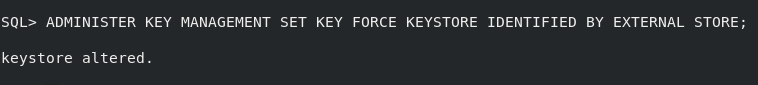
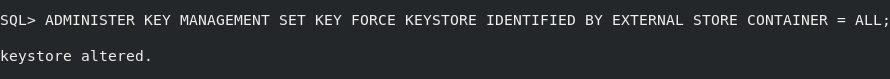
Lab changes + validation fixes (#405)
* Updated the brown button stack bundle path

* Updated versions

* Updated instruction to refresh page

* Corrected minor typo

* Updated lab headings

* Updated screenshots for Lab 10 + added acknowledgements

* Fixed issues causing validation failure

* Updated file name per validation check

Changed region(s): [[0.0, 0.1772, 1.0, 0.3291], [0.0, 0.6076, 0.2124, 0.8101]]

diff --git a/database/advanced/key-vault/key-vault-lab-5.md b/database/advanced/key-vault/key-vault-lab-5.md
@@ -13,7 +13,7 @@ This lab builds on concepts and operations from lab 4. Complete lab 4 first befo
 
 ## Task 1: Enroll the incoming Oracle database into Oracle Key Vault
 
-1.  Refresh the browser window on the right side of the remote desktop and log in to Key Vault as user **KVEPADMIN**
+1. Refresh the browser window on the right side of the remote desktop and log in to Key Vault as user **KVEPADMIN**
 
     For the password, execute the following command
 
@@ -31,7 +31,7 @@ This lab builds on concepts and operations from lab 4. Complete lab 4 first befo
 
     ![Key Vault](./images/image-2025-7-24_15-59-1.png "Click the Endpoints tab, then click Add to create a new endpoint")
 
-3.  Provide the endpoint details and click **Register** to create the new endpoint
+3. Provide the endpoint details and click **Register** to create the new endpoint
 
     We recommend using LIVELABS\_DB\_EP for the **Endpoint Name**
     ```plaintext
@@ -49,11 +49,11 @@ This lab builds on concepts and operations from lab 4. Complete lab 4 first befo
     ![Key Vault](./images/image-2025-7-24_12-17-29.png "Fill in the details of your endpoint: Endpoint Name is LIVELABS_DB_EP; Type is Oracle Database; OS Type is Linux; Description is 'This is the endpoint for LiveLabs database (cdb1).'; Click 'Register'")
 
 
-4.  Click the newly created endpoint **LIVELABS\_DB\_EP** to see its details
+4. Click the newly created endpoint **LIVELABS\_DB\_EP** to see its details
 
     ![Key Vault](./images/Screenshot_2025-10-03_14.02.30.png "Click the newly created endpoint LIVELABS_DB_EP to see its details")
 
-5.  Add **LIVELABS\_DB\_WALLET** as the **Default Wallet** on the endpoint details page and click **Save**
+5. Add **LIVELABS\_DB\_WALLET** as the **Default Wallet** on the endpoint details page and click **Save**
 
     By setting up a *default wallet*, all new keys of the database will be a part of this wallet.
 
@@ -65,11 +65,11 @@ This lab builds on concepts and operations from lab 4. Complete lab 4 first befo
 
     ![Key Vault](./images/image-2025-7-24_16-12-59.png "Add the default wallet on the endpoint details page and click Save")
 
-6.  Verify that the permissions of the default wallet (LIVELABS\_DB\_WALLET) are set to 'Read, Write, Manage Wallet' by checking the **Access to Wallets** section of this page
+6. Verify that the permissions of the default wallet (LIVELABS\_DB\_WALLET) are set to 'Read, Write, Manage Wallet' by checking the **Access to Wallets** section of this page
 
     ![Key Vault](./images/Screenshot_2025-10-03_13.56.15.png "Check the permissions of the default wallet")
 
-7.  Click on the **Endpoints** tab and copy the **Enrollment Token** for **LIVELABS\_DB\_EP**
+7. Click on the **Endpoints** tab and copy the **Enrollment Token** for **LIVELABS\_DB\_EP**
 
     ![Key Vault](./images/Screenshot_2025-10-03_14.03.59.png "Click on the Endpoints tab and copy the Enrollment Token")
 
@@ -79,21 +79,21 @@ This lab builds on concepts and operations from lab 4. Complete lab 4 first befo
 
 ## Task 2: Download the Oracle Key Vault client software for this database
 
-1.  On the database host, go to the Key Vault login page, and click on **Endpoint Enrollment and Software Download**
+1. On the database host, go to the Key Vault login page, and click on **Endpoint Enrollment and Software Download**
 
     ![Key Vault](./images/image-2025-7-24_12-31-21.png "On the database host, go to the Key Vault login page, click on Endpoint Enrollment and Software Download")
 
-2.  Paste the Enrollment Token copied in step 7 of Task 1 and click **Submit Token**. You will see the endpoint details automatically populated.
+2. Paste the Enrollment Token copied in step 7 of Task 1 and click **Submit Token**. You will see the endpoint details automatically populated.
 
     ![Key Vault](./images/Screenshot_2025-10-03_14.11.39.png "Paste the Enrollment Token copied in step 7 of task 1 and click Submit Token. You will see the endpoint details automatically populated.")
 
-3.  Click **Enroll** to download the "okvclient.jar" file. The file is downloaded to your database host.
+3. Click **Enroll** to download the "okvclient.jar" file. The file is downloaded to your database host.
 
     ![Key Vault](./images/Screenshot_2025-10-03_14.13.54.png "Click enroll to download the okvclient.jar file. The file is downloaded to your database host.")
 
 ## Task 3: Deploy the Oracle Key Vault client software on the database host
 
-1.  Set up the Key Vault endpoint home. This is the root directory for the endpoint software. Setting **OKV_HOME** allows Key Vault utilities and libraries to locate the endpoint software and configuration files.
+1. Set up the Key Vault endpoint home. This is the root directory for the endpoint software. Setting **OKV_HOME** allows Key Vault utilities and libraries to locate the endpoint software and configuration files.
 
     ```
     <copy>
@@ -101,7 +101,7 @@ This lab builds on concepts and operations from lab 4. Complete lab 4 first befo
     </copy>
     ```
 
-2.  Install the Key Vault software. This prompts for the endpoint connection password. We will call this the "Key Vault endpoint password".
+2. Install the Key Vault software. This prompts for the endpoint connection password. We will call this the "Key Vault endpoint password".
 
     This is a one time step, and the installation software (okvclient.jar) is automatically deleted after a successful installation.
 
@@ -115,7 +115,7 @@ This lab builds on concepts and operations from lab 4. Complete lab 4 first befo
 
     ![Key Vault](./images/image-2025-09-27_install.png "Install Key Vault software. This prompts for the endpoint connection password.")
 
-3.  Review the layout of the Key Vault endpoint home
+3. Review the layout of the Key Vault endpoint home
 
     ```
     <copy>
@@ -125,7 +125,7 @@ This lab builds on concepts and operations from lab 4. Complete lab 4 first befo
 
     ![Key Vault](./images/image-2025-7-24_16-33-45.png "Review the layout of the Key Vault endpoint home")
 
-4.  Deploy the Key Vault library (liborapkcs.so) used by the database to communicate with Key Vault
+4. Deploy the Key Vault library (liborapkcs.so) used by the database to communicate with Key Vault
 
     ```
     <copy>
@@ -137,7 +137,7 @@ This lab builds on concepts and operations from lab 4. Complete lab 4 first befo
 
 ## Task 4: Preparing the database for Oracle Key Vault migration
 
-1.  Update the TDE configuration of the database to OKV|FILE
+1. Update the TDE configuration of the database to OKV|FILE
 
     ```
     <copy>
@@ -151,7 +151,7 @@ This lab builds on concepts and operations from lab 4. Complete lab 4 first befo
 
 ## Task 5: Migrate the database to Oracle Key Vault for centralized key management
 
-1.  Migrate the database to use Key Vault
+1. Migrate the database to use Key Vault
 
     Use the same password for the Key Vault endpoint as used in step 2 of Task 3
 
@@ -178,7 +178,7 @@ This lab builds on concepts and operations from lab 4. Complete lab 4 first befo
 
     ![Key Vault](./images/Screenshot_2025-10-03_15.11.26.png "Add the Key Vault password to the TDE wallet")
 
-2.  Migration is always a re-key (key rotation) operation. A new key is generated in Key Vault, and the data encryption keys are re-wrapped with this new key in Key Vault. For a multi-tenant database with CDB$ROOT and one PDB, two keys are created: one for CDB$ROOT and one for PDB1.
+2. Migration is always a re-key (key rotation) operation. A new key is generated in Key Vault, and the data encryption keys are re-wrapped with this new key in Key Vault. For a multi-tenant database with CDB$ROOT and one PDB, two keys are created: one for CDB$ROOT and one for PDB1.
 
     Enter the Key Vault endpoint password when prompted.
 
@@ -190,7 +190,7 @@ This lab builds on concepts and operations from lab 4. Complete lab 4 first befo
 
     ![Key Vault](./images/Screenshot_2025-10-03_15.13.44.png "Migration is always a re-key operation. There are two new keys created in Key Vault: one for the CDB\$ROOT and one for PDB1")
 
-3.  Verify the database configuration post-migration to Key Vault
+3. Verify the database configuration post-migration to Key Vault
 
     ```
     <copy>
@@ -203,3 +203,8 @@ This lab builds on concepts and operations from lab 4. Complete lab 4 first befo
     - In the wallet status, you'll see the wallet of type OKV is open
     
     ![Key Vault](./images/image-2025-7-24_17-8-50.png "Review the database setup after migrating to Key Vault")
+
+## Acknowledgements
+- **Author** - Shubham Goyal
+- **Contributors** - Peter Wahl, Rahil Mir
+- **Last Updated By/Date** - Shubham Goyal - March 2026

diff --git a/database/advanced/key-vault/key-vault-lab-9.md b/database/advanced/key-vault/key-vault-lab-9.md
@@ -1,4 +1,4 @@
-# Enhance security with key management in vulnerable environments
+# Restrict key exposure in target environments (like P2T clones)
 
 ## Introduction
 You may need to share data with environments operating under lower security controls, such as when cloning a PDB from production to test (P2T). It is crucial to ensure that TDE master encryption keys are never exposed, downloaded, or cached in these environments. To enhance security, mark these keys as non-extractable in Oracle Key Vault.
@@ -13,7 +13,7 @@ This lab builds on concepts and operations from lab 8. Complete lab 8 first befo
 
 ## Task 1: Generate a Non-Extractable key
 
-1.  Log in to Key Vault as user **KVRESTADMIN**
+1. Log in to Key Vault as user **KVRESTADMIN**
 
     Get the password of KVRESTADMIN by executing this command
 
@@ -33,7 +33,7 @@ This lab builds on concepts and operations from lab 8. Complete lab 8 first befo
 
     ![Key Vault](./images/Screenshot_2025-10-03_14.29.00.png "Set the Extractable Attribute for the Symmetric Key to False")
 
-4.  On the database host, set a new Transparent Data Encryption Key. The new key created in Key Vault will be generated with the 'Non Extractable' attribute set
+4. On the database host, set a new Transparent Data Encryption Key. The new key created in Key Vault will be generated with the 'Non Extractable' attribute set
 
     ```
     <copy>
@@ -67,7 +67,7 @@ This lab builds on concepts and operations from lab 8. Complete lab 8 first befo
     </copy>
     ````
 
-   ![Key Vault](./images/Screenshot_2025-10-03_15.59.33.png "Check if the server is unreachable")
+    ![Key Vault](./images/Screenshot_2025-10-03_15.59.33.png "Check if the server is unreachable")
 
 ## Task 3: Attempt to create a new tablespace to confirm that database operations fail even when the secure persistent cache exists
 
@@ -85,7 +85,7 @@ This lab builds on concepts and operations from lab 8. Complete lab 8 first befo
 
     The creation of an encrypted tablespace fails because the non-extractable key cannot exist in the persistent cache, and the database cannot fetch it from Key Vault since the connection was disconnected in Task 2. This underscores that non-extractable keys cannot be accessed outside of Key Vault and that this deployment can be leveraged to provide higher levels of assurance in environments with a lower security posture.
 
-   ![Key Vault](./images/Screenshot_2025-10-07_22.09.24.png "Attempt to create a new tablespace")
+    ![Key Vault](./images/Screenshot_2025-10-07_22.09.24.png "Attempt to create a new tablespace")
 
 
 ## Task 4: Re-establish connectivity between the database and Key Vault
@@ -108,5 +108,9 @@ This lab builds on concepts and operations from lab 8. Complete lab 8 first befo
     </copy>
     ````
 
-   ![Key Vault](./images/Screenshot_2025-10-03_16.04.40.png "Ensure the server is reachable")
+    ![Key Vault](./images/Screenshot_2025-10-03_16.04.40.png "Ensure the server is reachable")
 
+## Acknowledgements
+- **Author** - Shubham Goyal
+- **Contributors** - Peter Wahl, Rahil Mir
+- **Last Updated By/Date** - Shubham Goyal - March 2026

diff --git a/database/advanced/key-vault/key-vault-lab-8.md b/database/advanced/key-vault/key-vault-lab-8.md
@@ -1,4 +1,4 @@
-# Ensure reliable data access during connectivity disruptions
+# Ensure reliable data access during disruptions in connectivity between the database and Oracle Key Vault
 
 ## Introduction
 Oracle Key Vault cluster deployment ensures continuous availability during server failures, but connectivity disruptions may still pose a problem. How do you handle network disruptions between your databases and the Key Vault cluster? Key Vault's secure persistent cache ensures your databases continue operating smoothly, even during connectivity issues. 
@@ -23,7 +23,7 @@ This lab builds on concepts and operations from lab 5. Complete lab 5 first befo
     </copy>
     ````
 
-   ![Key Vault](./images/Screenshot_2025-10-03_15.56.40.png "List the IDs of the keys in the local secure persistent cache")
+    ![Key Vault](./images/Screenshot_2025-10-03_15.56.40.png "List the IDs of the keys in the local secure persistent cache")
 
 ## Task 2: Simulate network outage
 
@@ -51,7 +51,7 @@ This lab builds on concepts and operations from lab 5. Complete lab 5 first befo
 
     The retrieval of key IDs from Key Vault will fail because the network connection between the database and the Key Vault server is disconnected.
 
-   ![Key Vault](./images/Screenshot_2025-10-03_15.59.33.png "Check if the server is unreachable")
+    ![Key Vault](./images/Screenshot_2025-10-03_15.59.33.png "Check if the server is unreachable")
 
 ## Task 3: Confirm database resilience with persistent cache by creating a new encrypted tablespace
 
@@ -65,7 +65,7 @@ This lab builds on concepts and operations from lab 5. Complete lab 5 first befo
     </copy>
     ````
 
-   ![Key Vault](./images/Screenshot_2025-10-03_16.01.30.png "Create a new encrypted tablespace")
+    ![Key Vault](./images/Screenshot_2025-10-03_16.01.30.png "Create a new encrypted tablespace")
 
 2. Verify the new tablespace was created
 
@@ -77,7 +77,7 @@ This lab builds on concepts and operations from lab 5. Complete lab 5 first befo
     </copy>
     ````
 
-   ![Key Vault](./images/Screenshot_2025-10-03_16.03.05.png "Verify the new tablespace was created")
+    ![Key Vault](./images/Screenshot_2025-10-03_16.03.05.png "Verify the new tablespace was created")
 
 ## Task 4: Re-establish connectivity between the database and Key Vault
 
@@ -99,4 +99,9 @@ This lab builds on concepts and operations from lab 5. Complete lab 5 first befo
     </copy>
     ````
 
-   ![Key Vault](./images/Screenshot_2025-11-10_16.37.08.png "Ensure the server is reachable")
+    ![Key Vault](./images/Screenshot_2025-11-10_16.37.08.png "Ensure the server is reachable")
+
+## Acknowledgements
+- **Author** - Shubham Goyal
+- **Contributors** - Peter Wahl, Rahil Mir
+- **Last Updated By/Date** - Shubham Goyal - March 2026

diff --git a/database/advanced/key-vault/key-vault-lab-4.md b/database/advanced/key-vault/key-vault-lab-4.md
@@ -27,25 +27,30 @@ cd $DBSEC_LABS/okv
 The script will display the output:
 
 1. The system parameters controlling the behavior of TDE in your database: 
-- The default algorithm is AES256
-- Newly created tablespaces will be encrypted by default
-- The database uses a file-based wallet 
-- Root directory of the database wallet, &lt;WALLET\_ROOT&gt;. TDE wallets are located at &lt;WALLET\_ROOT&gt;/tde.
+    - The default algorithm is AES256
+    - Newly created tablespaces will be encrypted by default
+    - The database uses a file-based wallet 
+    - Root directory of the database wallet, &lt;WALLET\_ROOT&gt;. TDE wallets are located at &lt;WALLET\_ROOT&gt;/tde.
 
-![Key Vault](./images/OKV-LL4-001a.png "You see the system parameters that are controlling the behavior of TDE in your database.")
+    ![Key Vault](./images/OKV-LL4-001a.png "You see the system parameters that are controlling the behavior of TDE in your database.")
 
 2. The file-based wallet is open, and the database can use the master keys from the wallet for TDE operations. The PDB does not show a wallet location because the database is using united mode PDBs, and the PDBs inherit their location from CDB$ROOT.
 
-![Key Vault](./images/OKV-LL4-001b.png "The file based wallet is open for use. Since the database is using united mode PDBs, they inherit their location from CDB$ROOT.")
+    ![Key Vault](./images/OKV-LL4-001b.png "The file based wallet is open for use. Since the database is using united mode PDBs, they inherit their location from CDB$ROOT.")
 
 3. The identifier and creation time of the TDE master encryption key used by the CDB and PDB
 
-![Key Vault](./images/OKV-LL4-001c.png "The identifier of the TDE master encryption key in use by the CDB and the PDB as well as their creation time")
+    ![Key Vault](./images/OKV-LL4-001c.png "The identifier of the TDE master encryption key in use by the CDB and the PDB as well as their creation time")
 
 4. A list of encrypted tablespaces
 
-![Key Vault](./images/OKV-LL4-001d.png "A list of encrypted tablespaces")
+    ![Key Vault](./images/OKV-LL4-001d.png "A list of encrypted tablespaces")
 
 5. A list of encrypted RMAN backups
 
-![Key Vault](./images/OKV-LL4-001e.png "A list of encrypted RMAN backups")
+    ![Key Vault](./images/OKV-LL4-001e.png "A list of encrypted RMAN backups")
+
+## Acknowledgements
+- **Author** - Shubham Goyal
+- **Contributors** - Peter Wahl, Rahil Mir
+- **Last Updated By/Date** - Shubham Goyal - March 2026

diff --git a/database/advanced/key-vault/key-vault-lab-6.md b/database/advanced/key-vault/key-vault-lab-6.md
@@ -25,7 +25,7 @@ This lab builds on concepts and operations from lab 5. Complete lab 5 first befo
     </copy>
     ````
 
-   ![Key Vault](./images/image-2025-09-27_upload.png "Upload the pre-migration key from the local TDE wallet into the OKV wallet that you created in Lab 5:")
+    ![Key Vault](./images/image-2025-09-27_upload.png "Upload the pre-migration key from the local TDE wallet into the OKV wallet that you created in Lab 5:")
 
 2. Set the TDE_CONFIGURATION of the database to "OKV"
 
@@ -37,7 +37,7 @@ This lab builds on concepts and operations from lab 5. Complete lab 5 first befo
     </copy>
     ````
 
-   ![Key Vault](./images/TDE_CONFIG_OKV.png "Set the TDE_CONFIGURATION to 'OKV'")
+    ![Key Vault](./images/TDE_CONFIG_OKV.png "Set the TDE_CONFIGURATION to 'OKV'")
 
 3. To ensure security, delete the local TDE wallet from &lt;WALLET_ROOT&gt;/tde
 
@@ -48,4 +48,9 @@ This lab builds on concepts and operations from lab 5. Complete lab 5 first befo
     </copy>
     ````
 
-   ![Key Vault](./images/image-2025-09-05-delete-wallet-after-upload.png "To ensure security, delete the local TDE wallet from <WALLET_ROOT>/tde:")
+    ![Key Vault](./images/image-2025-09-05-delete-wallet-after-upload.png "To ensure security, delete the local TDE wallet from <WALLET_ROOT>/tde:")
+
+## Acknowledgements
+- **Author** - Shubham Goyal
+- **Contributors** - Peter Wahl, Rahil Mir
+- **Last Updated By/Date** - Shubham Goyal - March 2026

diff --git a/database/advanced/key-vault/key-vault-lab-7.md b/database/advanced/key-vault/key-vault-lab-7.md
@@ -23,7 +23,7 @@ This lab builds on concepts and operations from lab 6. Complete lab 6 first befo
     </copy>
     ````
 
-   ![Key Vault](./images/image-2025-09-25_11-48-23.png "Create a new local auto-login wallet in <WALLET_ROOT>/tde and add the Key Vault endpoint password")
+    ![Key Vault](./images/image-2025-09-25_11-48-23.png "Create a new local auto-login wallet in <WALLET_ROOT>/tde and add the Key Vault endpoint password")
 
 2. Update the Transparent Data Encryption (TDE) configuration of the database to 'OKV|FILE' so it can locate the new auto-login wallet in the specified &lt;WALLET_ROOT&gt;/tde directory.
 
@@ -67,3 +67,8 @@ This lab builds on concepts and operations from lab 6. Complete lab 6 first befo
     ```
     
     ![Key Vault](./images/Screenshot_2025-10-07_23.08.12.png "Confirm that the auto-login wallet has been correctly configured and is operational")
+
+## Acknowledgements
+- **Author** - Shubham Goyal
+- **Contributors** - Peter Wahl, Rahil Mir
+- **Last Updated By/Date** - Shubham Goyal - March 2026

diff --git a/database/advanced/key-vault/key-vault-lab-11.md b/database/advanced/key-vault/key-vault-lab-11.md
@@ -14,7 +14,7 @@ This lab builds on concepts and operations from lab 10. Complete lab 10 first be
 
 ## Task 1: Generate a key external to Oracle Key Vault
 
-1.  Write your key to a file
+1. Write your key to a file
 
     In this example, we use openssl to generate TDE Master Encryption Key. You can use other means to generate this key.
 
@@ -27,7 +27,7 @@ This lab builds on concepts and operations from lab 10. Complete lab 10 first be
 
 ## Task 2: Upload the key to Oracle Key Vault
 
-1.  Log in to Key Vault as user **KVRESTADMIN**
+1. Log in to Key Vault as user **KVRESTADMIN**
 
     Get the password of KVRESTADMIN by executing this command
 
@@ -95,3 +95,8 @@ This lab builds on concepts and operations from lab 10. Complete lab 10 first be
     ```
 
     ![Key Vault](./images/Screenshot_2025-10-08_12.12.47.png "Verify that the tablespace was re-keyed")
+
+## Acknowledgements
+- **Author** - Shubham Goyal
+- **Contributors** - Peter Wahl, Rahil Mir
+- **Last Updated By/Date** - Shubham Goyal - March 2026

diff --git a/database/advanced/key-vault/key-vault-lab-10.md b/database/advanced/key-vault/key-vault-lab-10.md
@@ -45,7 +45,7 @@ This lab builds on concepts and operations from lab 9. Complete lab 9 first befo
     ````
     <copy>
     sqlplus / as sysdba
-    ADMINISTER KEY MANAGEMENT SET KEY FORCE KEYSTORE IDENTIFIED BY EXTERNAL STORE;
+    ADMINISTER KEY MANAGEMENT SET KEY FORCE KEYSTORE IDENTIFIED BY EXTERNAL STORE CONTAINER = ALL;
     exit;
     </copy>
     ````
@@ -68,3 +68,8 @@ This lab builds on concepts and operations from lab 9. Complete lab 9 first befo
     ```
 
     ![Key Vault](./images/Screenshot_2025-10-07_23.39.39.png "Verify that the tablespace was re-keyed")
+
+## Acknowledgements
+- **Author** - Shubham Goyal
+- **Contributors** - Daniel Wu, Peter Wahl, Rahil Mir
+- **Last Updated By/Date** - Shubham Goyal - March 2026

diff --git a/database/advanced/key-vault/key-vault-lab-12.md b/database/advanced/key-vault/key-vault-lab-12.md
@@ -290,3 +290,8 @@ A Key Vault cluster provides continuous availability of your keys to ensure unin
     This section highlights how many read-write pairs are part of the cluster as well as the cluster service status. For now, there is just one node that we setup.
 
     ![Key Vault](./images/image-2025-09-11-19.02.06.png "On the Home page, the System Overview section at the bottom is updated, identifying the deployment mode as Cluster")
+
+## Acknowledgements
+- **Author** - Shubham Goyal
+- **Contributors** - Peter Wahl, Rahil Mir
+- **Last Updated By/Date** - Shubham Goyal - March 2026
